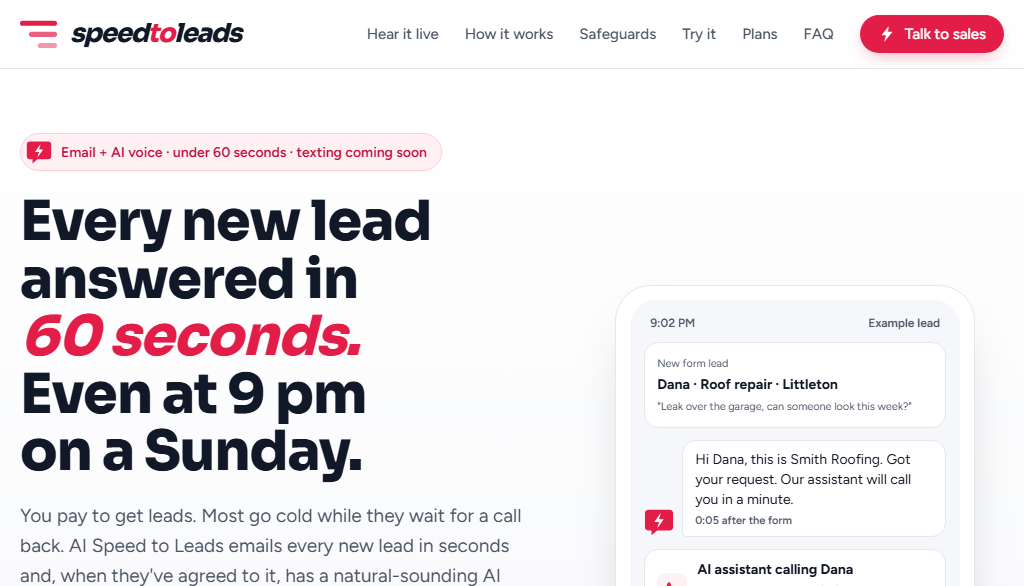
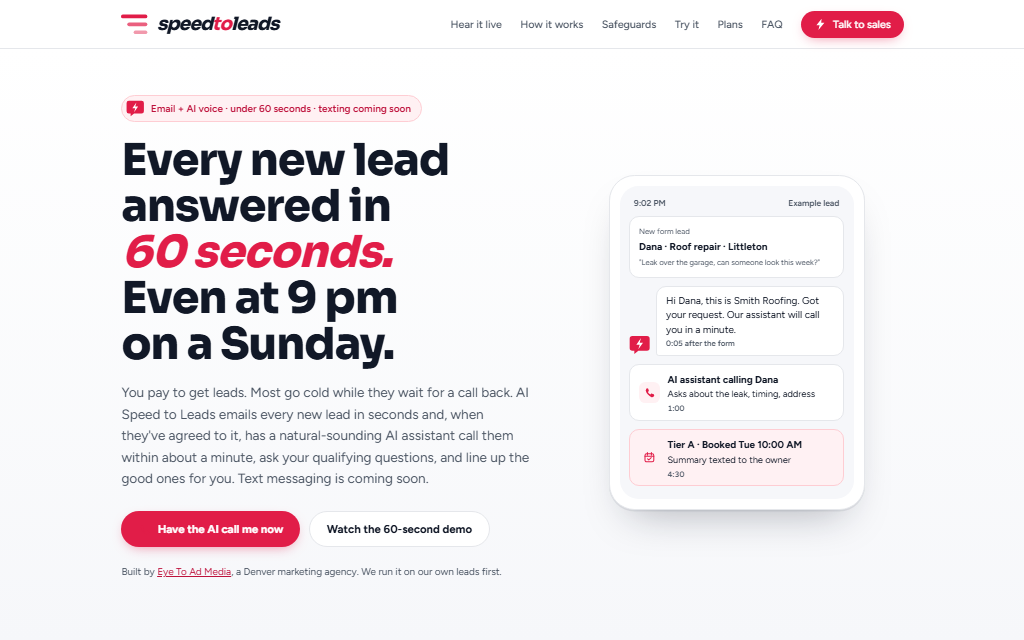
Our Work: use the new 16:10 AI Speed to Leads screenshot in the hero and featured card

diff --git a/our-work/index.html b/our-work/index.html
@@ -128,7 +128,7 @@
 </div>
 <div class="ow-fan" aria-hidden="true">
 <div class="fs f1"><img src="/images/work/portfolio-roof-solutions-atlanta-roofing-website.webp" alt="Roof Solutions Atlanta roofing website" width="1024" height="586" loading="lazy" decoding="async"></div>
-<div class="fs f2"><img src="/images/work/portfolio-ai-speed-to-leads-website.png" alt="AI Speed to Leads homepage: every new lead answered in 60 seconds" width="1024" height="586" loading="lazy" decoding="async"></div>
+<div class="fs f2"><img src="/images/work/portfolio-ai-speed-to-leads-home.png" alt="AI Speed to Leads homepage: every new lead answered in 60 seconds" width="1024" height="640" loading="lazy" decoding="async"></div>
 <div class="fs f3"><img src="/images/work/portfolio-world-vr-mall-3d-website.avif" alt="World VR Mall 3D website" width="640" height="400" loading="lazy" decoding="async"></div>
 </div>
 </div></div>
@@ -138,7 +138,7 @@
 <div class="k-capsule"><p><b>What's on this page:</b> live websites and SEO properties built by Eye To Ad Media — client sites including an Atlanta roofing company, our own AI builds (aispeedtoleads.com, myaiagentarmy.com, bigaibrain.com, aiagentforadvertising.com), our domain marketplace (bestdomainsforbusiness.com), our own tools (vettley.com, usabusinesssearch.com, distributepressreleases.com, pressreleaseforbusiness.com, advertisingforcontractors.com, restaurantsseo.com), and 3D builds. Every link opens the real site.</p></div>
 <div class="k-chip">Featured builds</div>
 <h2 class="k-h" id="ow-h2a">Built to be found. <em>Built to ring.</em></h2>
-<div class="ow-feat"> <article class="ow-card ow-new"><div class="ow-shot"><picture><img src="/images/work/portfolio-ai-speed-to-leads-website.png" alt="AI Speed to Leads homepage: Every new lead answered in 60 seconds, even at 9 pm on a Sunday, with an example lead getting an AI call" width="1024" height="586" loading="lazy" decoding="async"></picture></div><div class="ow-body"><div class="ow-tags"><span class="n">New</span><span class="o">Our product</span><span>AI voice</span></div><h3>AI Speed to Leads &mdash; every lead answered in 60 seconds</h3><p>Most leads go cold while they wait for a call back. AI Speed to Leads emails every new web lead in seconds and, when the person agreed to it on the form, a natural-sounding AI assistant calls them within about a minute, asks the business&rsquo;s own questions and lines up the next step. Consent-only by design: it never cold calls, never dials lists, and every call says it&rsquo;s an AI. Text messaging is coming soon.</p><ul><li>Email + AI voice call in under a minute, day or night</li><li>Asks your qualifying questions and scores every lead</li><li>Have the AI call your own phone on the live demo</li></ul><a class="go" href="https://aispeedtoleads.com/" rel="noopener" target="_blank">Visit aispeedtoleads.com &rarr;</a><a class="go ow-go2" href="https://aispeedtoleads.com/demo/" rel="noopener" target="_blank">Hear it call you &rarr;</a></div></article>
+<div class="ow-feat"> <article class="ow-card ow-new"><div class="ow-shot"><picture><img src="/images/work/portfolio-ai-speed-to-leads-home.png" alt="AI Speed to Leads homepage: Every new lead answered in 60 seconds, even at 9 pm on a Sunday, with an example lead getting an AI call" width="1024" height="640" loading="lazy" decoding="async"></picture></div><div class="ow-body"><div class="ow-tags"><span class="n">New</span><span class="o">Our product</span><span>AI voice</span></div><h3>AI Speed to Leads &mdash; every lead answered in 60 seconds</h3><p>Most leads go cold while they wait for a call back. AI Speed to Leads emails every new web lead in seconds and, when the person agreed to it on the form, a natural-sounding AI assistant calls them within about a minute, asks the business&rsquo;s own questions and lines up the next step. Consent-only by design: it never cold calls, never dials lists, and every call says it&rsquo;s an AI. Text messaging is coming soon.</p><ul><li>Email + AI voice call in under a minute, day or night</li><li>Asks your qualifying questions and scores every lead</li><li>Have the AI call your own phone on the live demo</li></ul><a class="go" href="https://aispeedtoleads.com/" rel="noopener" target="_blank">Visit aispeedtoleads.com &rarr;</a><a class="go ow-go2" href="https://aispeedtoleads.com/demo/" rel="noopener" target="_blank">Hear it call you &rarr;</a></div></article>
 <article class="ow-card ow-new"><div class="ow-shot"><picture><img src="/images/work/portfolio-my-ai-agent-army-website.webp" alt="My AI Agent Army homepage: Build the AI agent army your business actually needs, with a live Mission Control demo" width="1024" height="586" loading="lazy" decoding="async"></picture></div><div class="ow-body"><div class="ow-tags"><span class="n">New</span><span class="o">Our product</span><span>AI agents</span></div><h3>My AI Agent Army &mdash; the AI agent factory</h3><p>Order one AI agent or hundreds, each built to do a single job well. Visitors watch a live Mission Control demo where a squad of agents answers a missed call, drafts the follow-up and then stops to ask for approval before anything sends. Ready-made agents from our templates, or custom-built ones coded by our developers.</p><ul><li>Live agent demos on the home page and every squad page</li><li>Agent Factory builder with instant starting estimates</li><li>Ready-made or custom-built, own it or Subscribe-to-Own</li></ul><a class="go" href="https://www.myaiagentarmy.com/" rel="noopener" target="_blank">Visit myaiagentarmy.com &rarr;</a></div></article>
 <article class="ow-card ow-new"><div class="ow-shot"><picture><img src="/images/work/portfolio-nexgen-lead-groups-website.webp" alt="NexGen Lead Groups homepage: Leads groups, reinvented, with the Power Pair board showing which trades to pair with" width="1024" height="586" loading="lazy" decoding="async"></picture></div><div class="ow-body"><div class="ow-tags"><span class="n">New</span><span class="o">Our product</span><span>Free referral groups</span></div><h3>NexGen Lead Groups &mdash; leads groups, reinvented</h3><p>Free referral groups where smart tech pairs you with the business owners who already talk to your next customer. Pick your trade and the Power Pair board scores who you should sit beside: a marketing agency pairs best with a web designer, a print and promo shop, a CPA and a sign shop. No dues, one seat per trade, and Colorado groups are forming now in Denver Metro.</p><ul><li>Free to join, one seat per trade</li><li>Power Pair board scores every pairing out of 100</li><li>Headquartered in Denver, BBB accredited</li></ul><a class="go" href="https://nexgenleadgroups.com/" rel="noopener" target="_blank">Visit nexgenleadgroups.com &rarr;</a></div></article><article class="ow-card ow-new"><div class="ow-shot"><picture><source type="image/webp" srcset="/images/work/portfolio-vettley-business-signal-reports-1200.webp 1200w, /images/work/portfolio-vettley-business-signal-reports.webp 1900w" sizes="(min-width:900px) 620px, 100vw"><img src="/images/work/portfolio-vettley-business-signal-reports.png" alt="Vettley homepage: Check before you hire — free business signal reports" width="1900" height="908" loading="lazy" decoding="async"></picture></div><div class="ow-body"><div class="ow-tags"><span class="n">New</span><span class="o">Our product</span><span>Free reports</span></div><h3>Vettley — free business signal reports</h3><p>Check before you hire. Vettley is a searchable directory we built that reads the public signals every business leaves online: whether its website is secure, whether the page actually loads, whether there is a real address and phone number, and how long it has been online. A homeowner gets the facts before picking up the phone.</p><ul><li>Search by business, trade or city</li><li>Each business gets a signal score out of 100</li><li>Homepage shows a national average of 95/100 across 1,061 businesses in 51 states and 22 trades</li></ul><a class="go" href="https://vettley.com/" rel="noopener" target="_blank">Visit vettley.com →</a><a class="go ow-go2" href="https://www.vettley.com/colorado/denver/marketing/eye-to-ad-media/" rel="nofollow noopener" target="_blank">See Eye To Ad Media's Vettley report →</a></div></article>
 <article class="ow-card ow-new"><div class="ow-shot"><picture><img src="/images/work/portfolio-big-ai-brain-website.webp" alt="Big AI Brain homepage: a goofy pink cartoon brain with the headline It doesn&rsquo;t know what a rock is. Yet." width="1024" height="586" loading="lazy" decoding="async"></picture></div><div class="ow-body"><div class="ow-tags"><span class="n">New</span><span class="o">Our project</span><span>AI from scratch</span></div><h3>Big AI Brain — an AI raised in public</h3><p>A baby AI we built from scratch that people teach on purpose. It starts as a &ldquo;single cell&rdquo; with 384 neurons and 482,809 connections, and visitors feed it facts, jokes and questions with the right answers. Humans check the meals before the brain studies them, every meal is credited to the person who gave it, and the homepage shows the brain growing. It is honest about where it is today: the growing brain still babbles, so a built-in calculator and hand-picked lists handle the math, jokes and facts.</p><ul><li>Built from scratch, not a rebranded chatbot</li><li>Knowledge given on purpose, not scraped</li><li>Clean, kid-friendly feeding rules</li></ul><a class="go" href="https://www.bigaibrain.com/" rel="noopener" target="_blank">Visit bigaibrain.com →</a></div></article><article class="ow-card"><div class="ow-shot"><img src="/images/work/portfolio-ai-agent-for-advertising-website.webp" alt="AI Agent for Advertising homepage: An AI agent for advertising that does the busywork and asks before it spends" width="1024" height="586" loading="lazy" decoding="async"></div><div class="ow-body"><div class="ow-tags"><span class="n">New</span><span class="o">Our project</span><span>AI agents</span></div><h3>AI Agent for Advertising</h3><p>Custom-coded AI agents for ad work. An agent can flag wasted Google Ads and Meta ads spend, answer ad leads in seconds and draft the Monday report, then wait for a person&rsquo;s OK before anything spends money. The site walks through animated example scenes so an owner can see the chore and the agent side by side.</p><ul><li>Google Ads and Meta Ads agents</li><li>A human approves before anything spends</li><li>Animated example scenes, no jargon</li></ul><a class="go" href="https://aiagentforadvertising.com/" rel="noopener" target="_blank">Visit aiagentforadvertising.com →</a><a class="go ow-go2" href="/ai-agents-for-business/">AI agents for any business →</a></div></article><article class="ow-card"><div class="ow-shot"><img src="/images/work/portfolio-best-domains-for-business-website.webp" alt="Best Domains for Business homepage: The perfect domain for what&rsquo;s next, with a domain search box" width="1024" height="586" loading="lazy" decoding="async"></div><div class="ow-body"><div class="ow-tags"><span class="n">New</span><span class="o">Our marketplace</span><span>Premium domains</span></div><h3>Best Domains for Business — premium names</h3><p>Our owner-direct domain marketplace. Search by service, city or state, buy straight from the owner, or ask us to find a name we don&rsquo;t have. We can access almost anything and find almost anything: experts at the low-hanging fruit and at finding hidden gems that take your brand to new heights.</p><ul><li>Owner-direct, from Denver</li><li>Search by service, city or state</li><li>&ldquo;Find it for me&rdquo; when the name isn&rsquo;t listed</li></ul><a class="go" href="https://bestdomainsforbusiness.com/" rel="noopener" target="_blank">Visit bestdomainsforbusiness.com →</a></div></article><article class="ow-card"><div class="ow-shot"><img src="/images/work/portfolio-roof-solutions-atlanta-roofing-website.webp" alt="Roof Solutions — bestroofersatlanta.com homepage, an Atlanta roofing company website built by Eye To Ad Media" width="1024" height="586" loading="lazy" decoding="async"></div><div class="ow-body"><div class="ow-tags"><span class="c">Client</span><span>Custom-coded</span><span>SEO · AIO · Agentic</span></div><h3>Roof Solutions — Atlanta, GA</h3><p>A metro-Atlanta roofing company that shows you the photos first. Geo-targeted city pages across the metro, structured for Google, Google Maps and AI answers, and a conversion path that starts with a free inspection instead of a number.</p><ul><li>City-by-city service pages, each with its own module</li><li>Photo-first inspection funnel with a 24/7 call path</li><li>Built to be quoted by AI assistants, not just ranked</li></ul><a class="go" href="https://bestroofersatlanta.com/" rel="noopener" target="_blank">Visit bestroofersatlanta.com →</a></div></article>
